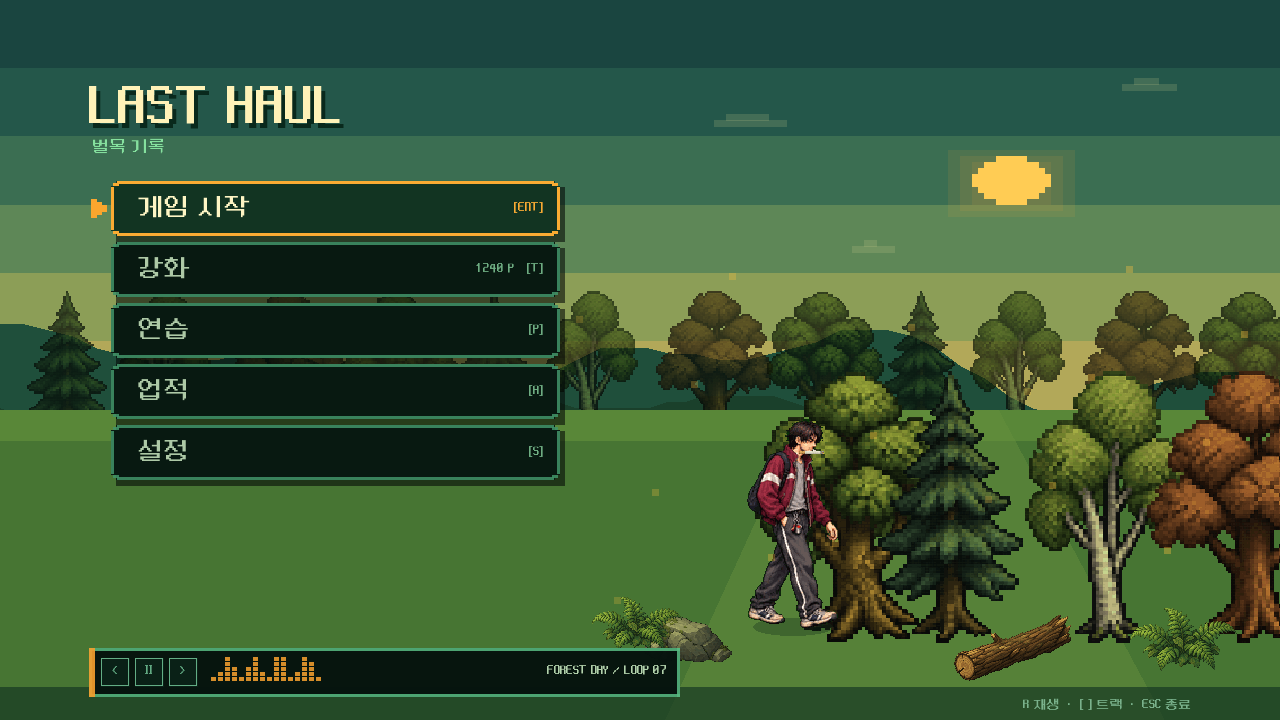
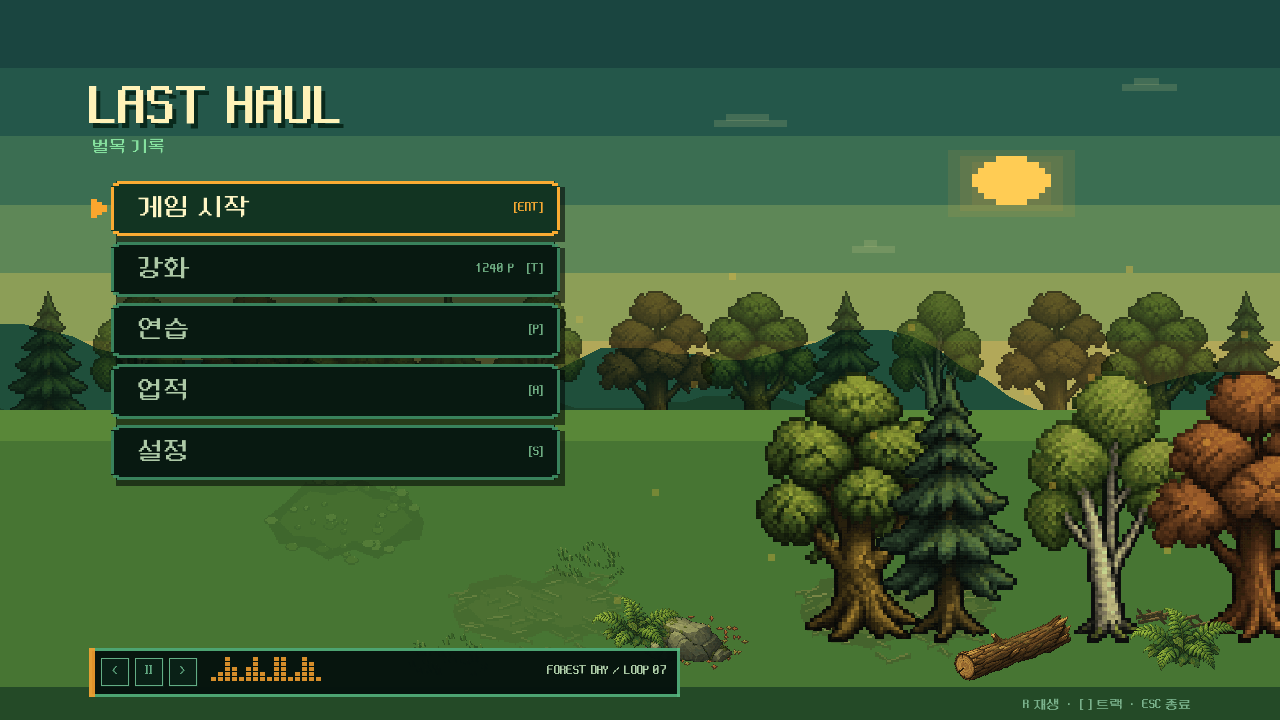
feat: 로비 숲 배경에 반응형 깊이 추가

diff --git a/docs/FRONTEND_UI_REDESIGN.md b/docs/FRONTEND_UI_REDESIGN.md
@@ -28,7 +28,7 @@
 7. 화면 역할에 따라 실제 게임 아트 또는 반응형 UI를 사용한다. 현재 활성 로비는 고정 배경 이미지 없이 저대비 픽셀 작업면을 쓴다.
 8. 메뉴 문구는 기능·대상·수치만 짧게 말한다. 분위기를 만들기 위한 명령문, 광고 문구, 과장된 세계관 설명을 쓰지 않는다. `온대림 1구역`, `할당량 60그루`, `작업 준비`처럼 구체적으로 쓴다.
 
-현재 활성 로비는 배경 그림 한 장에 메뉴를 얹지 않는다. `게임 시작·강화·연습·업적·설정`만 세로 메뉴로 두고, 선택 상태는 픽셀 레일과 한 단계의 색 변화로만 표시한다. 관제 패널·상태 카드·진단 탭 같은 장식성 정보 구조는 사용하지 않는다. 배경은 화면 크기에 맞춰 새벽 하늘·태양·먼 능선·숲 가장자리·풀밭 공터의 깊이를 다시 계산하고, 승인된 v3 나무와 숲 소품을 실제 팔레트로 배치한다. 왼쪽 메뉴 영역은 비우고 오른쪽 전경에 무게를 둔다. 이전 배경 화면의 왼쪽 아래 오디오 바 감각은 작은 픽셀 플레이어로 보존하며, 이전/재생·정지/다음과 `R`, `[`, `]` 단축키를 지원한다. 보존된 캠페인용 배경 자산은 삭제하지 않는다.
+현재 활성 로비는 배경 그림 한 장에 메뉴를 얹지 않는다. `게임 시작·강화·연습·업적·설정`만 세로 메뉴로 두고, 선택 상태는 픽셀 레일과 한 단계의 색 변화로만 표시한다. 관제 패널·상태 카드·진단 탭 같은 장식성 정보 구조는 사용하지 않는다. 배경은 화면 크기에 맞춰 새벽 하늘·태양·먼 능선·숲 가장자리·풀밭 공터의 깊이를 다시 계산하고, 승인된 v3 나무·숲 소품·바닥 데칼을 실제 팔레트로 배치한다. 원경과 전경은 마우스 위치에 따라 약하게 어긋나고 나무는 1~2픽셀만 흔들린다. 로비 배경에 작업자 캐릭터를 세우지 않으며, 왼쪽 메뉴 영역은 비우고 오른쪽 전경에 무게를 둔다. 이전 배경 화면의 왼쪽 아래 오디오 바 감각은 작은 픽셀 플레이어로 보존하며, 이전/재생·정지/다음과 `R`, `[`, `]` 단축키를 지원한다. 보존된 캠페인용 배경 자산은 삭제하지 않는다.
 
 로비 전용 타이포그래피는 `assets/font-korean-pixel.ttf`의 Neo둥근모 Pro를 정수 크기로 사용한다. 제목·메뉴·키캡·오디오 트랙명을 같은 픽셀 계열로 묶고, 선택 항목은 블록 커서와 잘린 모서리의 2픽셀 프레임으로 구분한다. Noto Sans KR 기본 고딕과 둥근 웹 카드형 메뉴는 로비에 사용하지 않는다.
 
